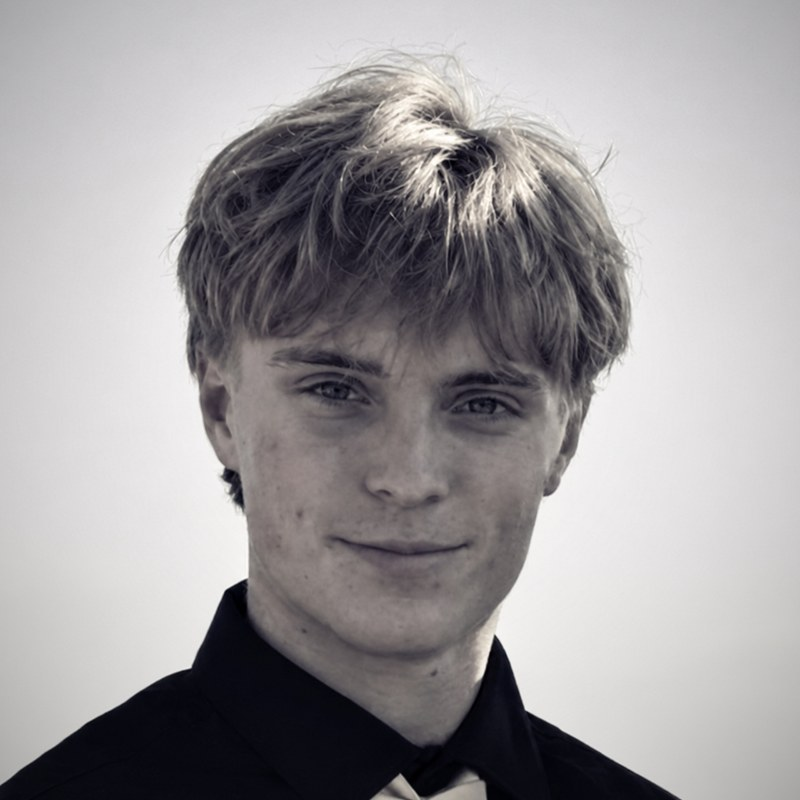
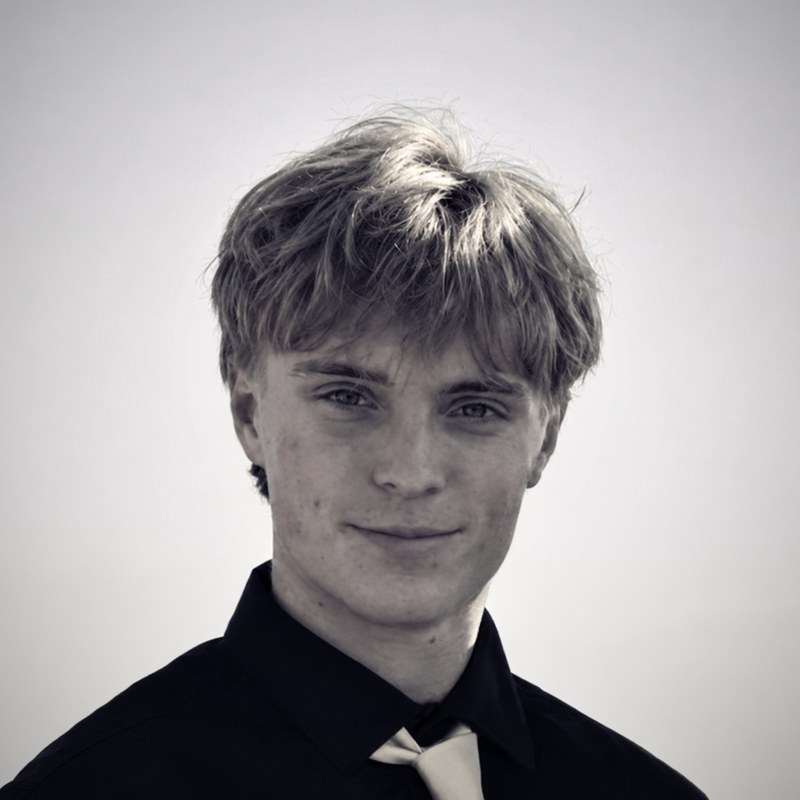
About portrait: gentler crop (~12%)
Claude-Session: https://claude.ai/code/session_013xGRqWKNQPi4hcHtJ8pSC5

diff --git a/about/index.html b/about/index.html
@@ -60,7 +60,7 @@
         <p class="about-sign">Charlie Marinelli, founder and creator. <a href="mailto:charlie@vylosmedia.com">charlie@vylosmedia.com</a></p>
       </div>
       <figure class="about-photo">
-        <img src="/media/charlie-marinelli.jpg?v=2" alt="Charlie Marinelli, founder of Vylos Media, in a black shirt against a pale sky" width="800" height="800" decoding="async">
+        <img src="/media/charlie-marinelli.jpg?v=3" alt="Charlie Marinelli, founder of Vylos Media, in a black shirt against a pale sky" width="800" height="800" decoding="async">
       </figure>
     </div>
   </section>
